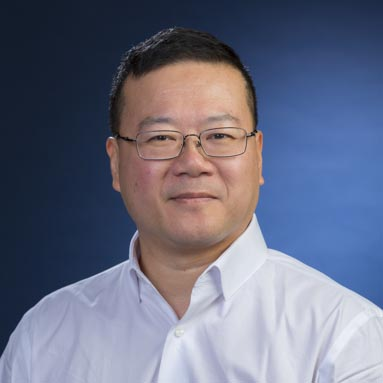
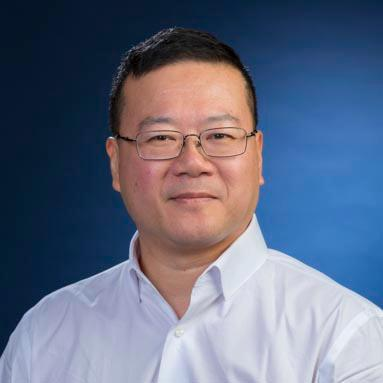
Fully functional profile picture system

diff --git a/src/main/java/edu/wpi/cs3733/D22/teamE/controllers/profilePageController.java b/src/main/java/edu/wpi/cs3733/D22/teamE/controllers/profilePageController.java
@@ -2,16 +2,20 @@ package edu.wpi.cs3733.D22.teamE.controllers;
 
 import com.jfoenix.controls.JFXListView;
 import edu.wpi.cs3733.D22.teamE.Main;
+import edu.wpi.cs3733.D22.teamE.PopUp;
 import edu.wpi.cs3733.D22.teamE.customUI.ServiceRequestButtonListCell;
 import edu.wpi.cs3733.D22.teamE.database.AccountsManager;
 import edu.wpi.cs3733.D22.teamE.database.Employee;
+import edu.wpi.cs3733.D22.teamE.database.ProfilePictureManager;
 import edu.wpi.cs3733.D22.teamE.database.daos.DAOSystem;
 import edu.wpi.cs3733.D22.teamE.entity.RequestInterface;
 import edu.wpi.cs3733.D22.teamE.entity.accounts.Account;
 import edu.wpi.cs3733.D22.teamE.pageControl;
+import java.io.File;
 import java.io.IOException;
 import java.io.InputStream;
 import java.net.URL;
+import java.nio.file.Files;
 import java.sql.SQLException;
 import java.util.ArrayList;
 import java.util.List;
@@ -20,13 +24,18 @@ import java.util.ResourceBundle;
 import javafx.collections.FXCollections;
 import javafx.collections.ObservableList;
 import javafx.event.ActionEvent;
+import javafx.event.EventHandler;
 import javafx.fxml.FXML;
 import javafx.fxml.Initializable;
+import javafx.scene.Node;
 import javafx.scene.control.Button;
 import javafx.scene.control.Label;
 import javafx.scene.image.Image;
+import javafx.scene.input.MouseEvent;
 import javafx.scene.paint.ImagePattern;
 import javafx.scene.shape.Circle;
+import javafx.stage.FileChooser;
+import javafx.stage.Stage;
 
 public class profilePageController extends containsSideMenu implements Initializable {
 
@@ -39,6 +48,8 @@ public class profilePageController extends containsSideMenu implements Initializ
   private Employee employee;
   private DAOSystem db;
   public JFXListView<RequestInterface> reqList;
+  private URL url;
+  private ResourceBundle rb;
   @FXML Button resetPassword;
 
   @Override
@@ -48,10 +59,18 @@ public class profilePageController extends containsSideMenu implements Initializ
       db = new DAOSystem();
       account = AccountsManager.getInstance().getAccount();
       employee = AccountsManager.getInstance().getEmployee();
-      URL url = Main.class.getResource("view/icons/profilepic.png");
-      assert url != null;
-      InputStream is = url.openStream();
-      Image image = new Image(is);
+      Image image;
+      try {
+        InputStream is = ProfilePictureManager.getPersonalPicture(employee);
+        image = new Image(is);
+      } catch (Exception e) {
+        URL url = Main.class.getResource("view/icons/profilepic.png");
+        assert url != null;
+        InputStream is = url.openStream();
+        image = new Image(is);
+      }
+      EventHandler<MouseEvent> circleEH = e -> changePic(e);
+      photoCirc.addEventHandler(MouseEvent.MOUSE_CLICKED, circleEH);
       photoCirc.setFill(new ImagePattern(image));
       nameLabel.setText(account.getFirstName() + " " + account.getLastName());
       posLabel.setText(account.getPosition());
@@ -82,5 +101,28 @@ public class profilePageController extends containsSideMenu implements Initializ
   @FXML
   public void resetPassword(ActionEvent event) throws IOException {
     pageControl.loadPage("passwordSettingPage.fxml");
+  }
+
+  public void changePic(MouseEvent e) {
+    FileChooser fileChooser = new FileChooser();
+    fileChooser.setTitle("Choose New Profile Picture");
+    fileChooser
+        .getExtensionFilters()
+        .addAll(new FileChooser.ExtensionFilter("Image Files", "*.png", "*.jpg", "*.jpeg"));
+    Stage stage = (Stage) ((Node) e.getSource()).getScene().getWindow();
+    File selectedFile = fileChooser.showOpenDialog(stage);
+    if (selectedFile != null) {
+      try {
+        byte[] bytes = Files.readAllBytes(selectedFile.toPath());
+        ProfilePictureManager.savePersonalPicture(employee, bytes);
+      } catch (IOException ioException) {
+        ioException.printStackTrace();
+        PopUp.createWarning("Error: Couldn't read file", stage);
+      } catch (SQLException sqlException) {
+        sqlException.printStackTrace();
+        PopUp.createWarning("Error: Employee not found", stage);
+      }
+      initialize(url, rb);
+    }
   }
 }

diff --git a/src/main/java/edu/wpi/cs3733/D22/teamE/database/ProfilePictureManager.java b/src/main/java/edu/wpi/cs3733/D22/teamE/database/ProfilePictureManager.java
@@ -11,43 +11,45 @@ import javax.imageio.ImageIO;
 
 public class ProfilePictureManager {
 
-  public static byte[] toByte() throws IOException {
-    BufferedImage image = ImageIO.read(Main.class.getResource("view/images/employees/wwong2.jpeg"));
+  public static byte[] toByte(String employeeID) throws IOException {
+    BufferedImage image =
+        ImageIO.read(Main.class.getResource("view/images/employees/" + employeeID + ".jpeg"));
     ByteArrayOutputStream bos = new ByteArrayOutputStream();
     ImageIO.write(image, "jpeg", bos);
     byte[] arr = bos.toByteArray();
     return arr;
   }
 
-  public static void toPng(byte[] byteArr) throws IOException {
+  public static void toJpeg(byte[] byteArr, String employeeID) throws IOException {
     ByteArrayInputStream bis = new ByteArrayInputStream(byteArr);
     BufferedImage bImage2 = ImageIO.read(bis);
     ImageIO.write(
         bImage2,
         "jpeg",
-        new File("src/main/resources/edu/wpi/cs3733/D22/teamE/view/images/employees/wong.jpeg"));
+        new File(
[1 lines of base64/hex data omitted]
+                + employeeID
+                + ".jpeg"));
   }
 
-  public static boolean getPersonalPicture(Employee employee) throws SQLException, IOException {
+  public static ByteArrayInputStream getPersonalPicture(Employee employee)
+      throws SQLException, IOException {
     Connection connection = DBConnect.EMBEDDED_INSTANCE.getConnection();
     Statement s = connection.createStatement();
-    try {
-      ResultSet rs =
-          s.executeQuery(
-              "select PROFILEPIC from EMPLOYEES where EMPLOYEEID = '"
-                  + employee.getEmployeeID()
-                  + "'");
-      if (rs.next()) {
-        Blob blob = rs.getBlob(1);
-        byte[] bytes = blob.getBytes(1L, (int) blob.length());
-        toPng(bytes);
-      }
-    } catch (Exception e) {
-      e.printStackTrace();
-      return false;
+    ResultSet rs =
+        s.executeQuery(
+            "select PROFILEPIC from EMPLOYEES where EMPLOYEEID = '"
+                + employee.getEmployeeID()
+                + "'");
+    if (rs.next()) {
+      Blob blob = rs.getBlob(1);
+      byte[] bytes = blob.getBytes(1L, (int) blob.length());
+      toJpeg(bytes, employee.getEmployeeID());
+      ByteArrayInputStream bis = new ByteArrayInputStream(bytes);
+      return bis;
     }
     s.close();
-    return true;
+    return null;
   }
 
   public static void savePersonalPicture(Employee employee, byte[] byteArr) throws SQLException {
@@ -56,9 +58,8 @@ public class ProfilePictureManager {
         "UPDATE EMPLOYEES SET PROFILEPIC = (?) where EMPLOYEEID = '"
             + employee.getEmployeeID()
             + "'";
-    int rowsaffected = 0;
     PreparedStatement statement = connection.prepareStatement(sql);
     statement.setBinaryStream(1, new ByteArrayInputStream(byteArr), byteArr.length);
-    rowsaffected = statement.executeUpdate();
+    statement.executeUpdate();
   }
 }

diff --git a/src/main/java/edu/wpi/cs3733/D22/teamE/database/daos/DAOSystemSingleton.java b/src/main/java/edu/wpi/cs3733/D22/teamE/database/daos/DAOSystemSingleton.java
@@ -4,24 +4,24 @@ import java.sql.SQLException;
 
 /** Singleton to create a DAOSystem Instance */
 public enum DAOSystemSingleton {
-    INSTANCE;
+  INSTANCE;
 
-    private DAOSystem system;
+  private DAOSystem system;
 
-    DAOSystemSingleton() {
-        try {
-            system = new DAOSystem();
-        } catch (SQLException e) {
-            e.printStackTrace();
-        }
+  DAOSystemSingleton() {
+    try {
+      system = new DAOSystem();
+    } catch (SQLException e) {
+      e.printStackTrace();
     }
+  }
 
-    /**
-     * Method to get DAOSystem
-     *
-     * @return system
-     */
-    public DAOSystem getSystem() {
-        return system;
-    }
+  /**
+   * Method to get DAOSystem
+   *
+   * @return system
+   */
+  public DAOSystem getSystem() {
+    return system;
+  }
 }

diff --git a/src/test/java/edu/wpi/energetic_easter_bunnies/database_testing/ProfilePicTest.java b/src/test/java/edu/wpi/energetic_easter_bunnies/database_testing/ProfilePicTest.java
@@ -10,7 +10,7 @@ import java.sql.SQLException;
 public class ProfilePicTest {
 
   public static void main(String[] args) throws IOException, SQLException {
-    byte[] bytes = ProfilePictureManager.toByte();
+    byte[] bytes = ProfilePictureManager.toByte("wwong2");
     DAO<Employee> employeeDAO = new EmployeeDAOImpl();
     Employee wong = new Employee("wwong2", "Wilson Wong", "Nurse", 69000.0, "FDEPT00101", true, 0);
     Employee staff = employeeDAO.get("staff");
